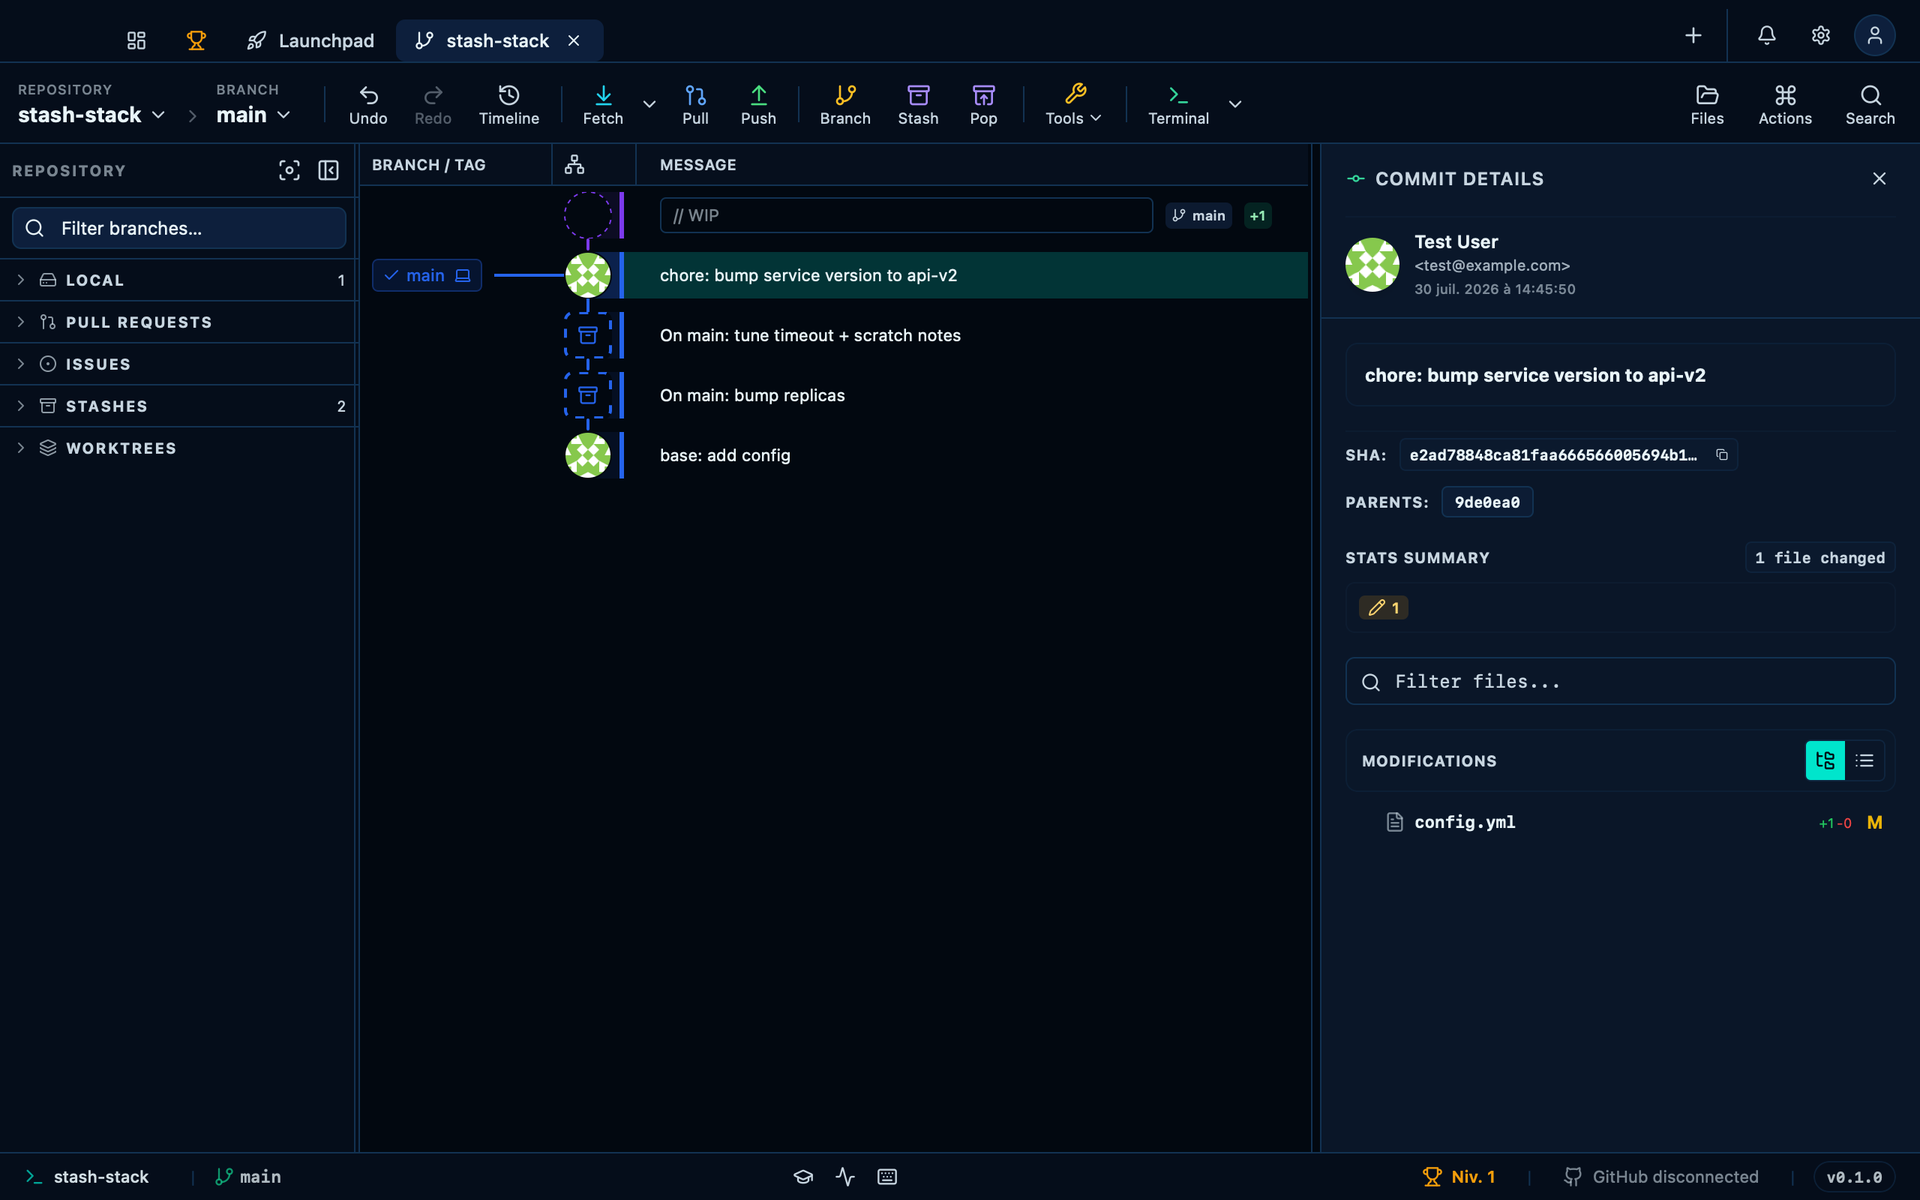
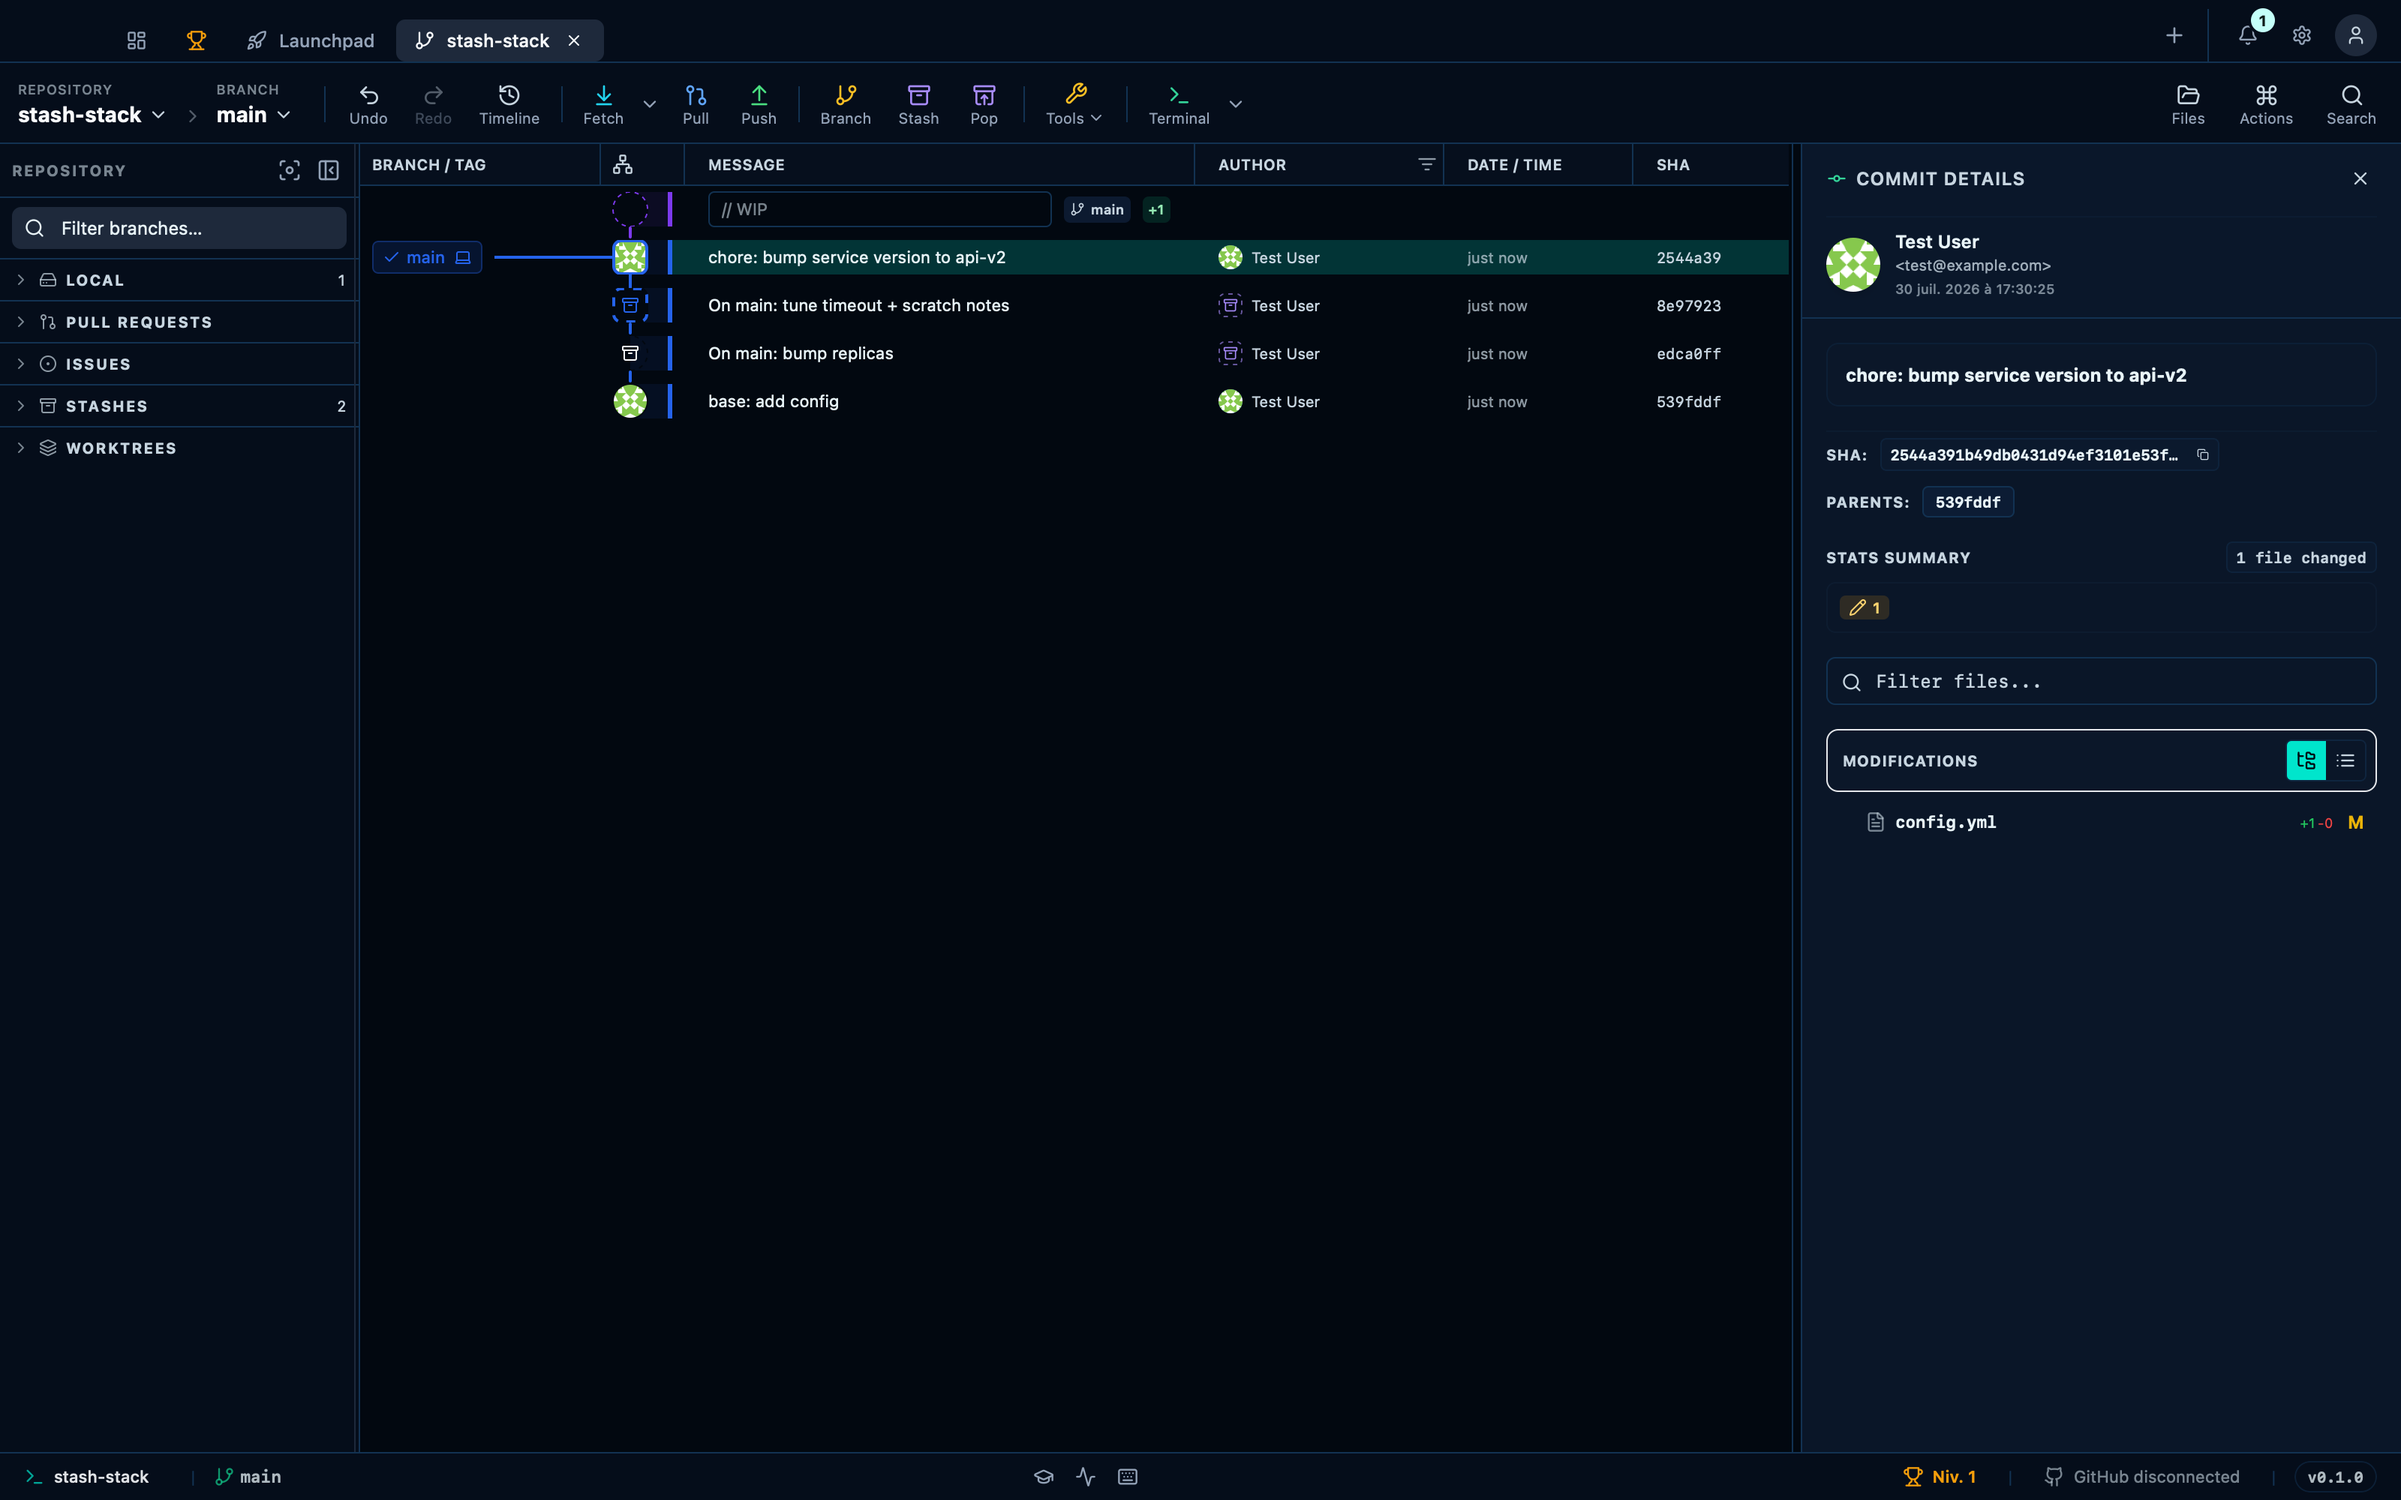
test(e2e): bigger window, denser rows, all columns, and a working AI mock by default
Improves the e2e suite's default capture configuration, applied to every
doc/marketing/visual screenshot the suite takes:

- Bumps the e2e-only window size from 1280x800 to 1600x1000
  (tauri.e2e.conf.json), giving screenshots more room.
- Defaults row height to "small" (32px) instead of the app's own
  "standard" (40px) factory default, fitting more history per capture.
- Shows every commit-graph column (previously only refs/graph/message)
  and widens the graph column to 500px so multi-lane histories render in
  "full" mode rather than "overflow"/"compact".
- Starts a suite-wide fake AI server (fixed port, wdio.conf.ts's
  onPrepare/onComplete) and points the default AI settings at it, so the
  real factory default (AI enabled, pointed at a local Ollama) doesn't
  raise the "AI provider is unreachable" banner in a sandbox with no
  Ollama running. Scenarios needing AI genuinely off, or driving real
  generation against their own scripted server, still override this —
  unaffected.

Also generalizes the disconnected-AI-provider banner's copy from
"{{provider}} is unreachable" (e.g. "Ollama is unreachable") to a plain
"AI provider is unreachable" in both locales, since the specific preset
name wasn't adding anything a user could act on.

Regenerated all 20 existing doc-site screenshots against the new
defaults (docs/screenshots/*.png) — same scenarios, same assertions,
just a roomier, denser capture.

diff --git a/apps/e2e/step-definitions/hooks.steps.ts b/apps/e2e/step-definitions/hooks.steps.ts
@@ -1,5 +1,7 @@
 import { Before } from '@wdio/cucumber-framework'
 import { seedSettings } from '../support/settings.js'
+import { seedGraphColumns } from '../support/gitGraphColumns.js'
+import { SUITE_WIDE_FAKE_AI_URL } from '../support/fakeAiServer.js'
 
 // The app's own factory default is 'dark' (settings.store.ts), but every capture this suite takes
 // — doc screenshots, marketing screenshots, and every @visual baseline — should look like the
@@ -7,9 +9,37 @@ import { seedSettings } from '../support/settings.js'
 // the suite-wide default; a scenario that specifically exercises theming (e.g. settings.feature's
 // per-theme cards) still switches themes itself, this only sets the starting point.
 //
+// `small` (32px) rows fit more history in the same screenshot height than the app's own factory
+// `standard` (40px) default — purely a capture-density choice, not a claim about which one a real
+// user should pick.
+//
 // Runs before every scenario's own Given steps, so it lands in localStorage before that
 // scenario's first reload (fixture-open, fixture-build + window nav, etc.) — the same "seed
 // before reload" mechanism seedSettings' other callers already rely on.
 Before(async () => {
-  await seedSettings({ appearance: { theme: 'ocean' } })
+  await seedSettings({
+    appearance: { theme: 'ocean', rowHeight: 'small' },
+    // Real factory default: AI enabled, pointed at "Ollama". Pointing it at the suite-wide fake
+    // server instead of leaving `url` at its real default (a local Ollama that isn't running in
+    // this sandbox) means the "AI provider is unreachable" banner never raises by default — a
+    // scenario that specifically wants AI *off*, or wants to drive real generation against its own
+    // scripted server, still overrides this with its own "AI features are turned off" /
+    // "the AI provider is pointed at a fake server" step, same as before.
+    ai: { enabled: true, url: SUITE_WIDE_FAKE_AI_URL, model: 'fake-model' },
+  })
+
+  // Every column visible, and `graph` wide enough that no fixture's lane count ever pushes it
+  // into its `overflow`/`compact` modes (see `graphColumnSizing.ts`) — a real per-repo maximum is
+  // computed at render time from that specific repo's concurrent branch count, so there is no
+  // single "true max" to seed in advance; this fixed width is just generous enough (COL_WIDTH is
+  // 22px/lane) to comfortably fit every fixture in this suite without wasted space becoming
+  // noticeable on a 1600px-wide window.
+  await seedGraphColumns({
+    refs: { visible: true, width: 160 },
+    graph: { visible: true, width: 500 },
+    message: { visible: true, width: 400 },
+    author: { visible: true, width: 150 },
+    date: { visible: true, width: 110 },
+    sha: { visible: true, width: 80 },
+  })
 })

diff --git a/apps/e2e/support/fakeAiServer.ts b/apps/e2e/support/fakeAiServer.ts
@@ -10,7 +10,25 @@ export interface FakeAiServerHandle {
   stop: () => Promise<void>
 }
 
+/**
+ * Fixed port for the suite-wide fake AI server started once in `wdio.conf.ts`'s `onPrepare` (see
+ * `SUITE_WIDE_FAKE_AI_URL` below) so the default AI settings seeded by every scenario's `Before`
+ * hook (`hooks.steps.ts`) point at something that actually answers `GET /v1/models` — otherwise
+ * every scenario would need its own "AI features are turned off" step just to silence the
+ * "AI provider is unreachable" banner the app's own real factory default (`ai.enabled: true`,
+ * pointed at a local Ollama) would otherwise raise in a sandbox with no Ollama running. Workers
+ * run in separate OS processes from the `onPrepare` hook that starts this, so they can't share a
+ * live handle — only a well-known port number, hence the fixed value rather than an OS-assigned
+ * one.
+ */
+export const SUITE_WIDE_FAKE_AI_PORT = 8934
+export const SUITE_WIDE_FAKE_AI_URL = `http://127.0.0.1:${SUITE_WIDE_FAKE_AI_PORT}`
+
 export interface FakeAiServerOptions {
+  /** Binds to this exact port instead of an OS-assigned one. Only the suite-wide server
+   * (`wdio.conf.ts`'s `onPrepare`) needs this — every per-scenario fake server still gets a fresh
+   * ephemeral port so scenarios never contend over one. */
+  port?: number
   /** Tokens streamed back as separate SSE chunks, in order. */
   tokens?: string[]
   /** Message used for the single group returned by the non-streaming (grouping) completion path.
@@ -141,7 +159,7 @@ export async function startFakeAiServer(
     res.end()
   })
 
-  await new Promise<void>((resolve) => server.listen(0, '127.0.0.1', resolve))
+  await new Promise<void>((resolve) => server.listen(options.port ?? 0, '127.0.0.1', resolve))
   const { port } = server.address() as AddressInfo
 
   return {

diff --git a/apps/e2e/wdio.conf.ts b/apps/e2e/wdio.conf.ts
@@ -2,6 +2,7 @@ import { existsSync } from 'node:fs'
 import { dirname, join } from 'node:path'
 import { fileURLToPath } from 'node:url'
 import type { Services } from '@wdio/types'
+import { startFakeAiServer, SUITE_WIDE_FAKE_AI_PORT, type FakeAiServerHandle } from './support/fakeAiServer.ts'
 
 const __dirname = dirname(fileURLToPath(import.meta.url))
 
@@ -46,8 +47,23 @@ const visualService: Services.ServiceEntry = [
   },
 ]
 
+// Started once for the whole run (this hook runs in the launcher process, not a per-spec-file
+// worker — see SUITE_WIDE_FAKE_AI_PORT's own doc comment for why a fixed port is what lets the
+// workers reach it). Every scenario's Before hook (hooks.steps.ts) points the default AI settings
+// here, so the real factory default (AI enabled, pointed at a local Ollama) doesn't raise an
+// "AI provider is unreachable" banner in a sandbox with no Ollama running — scenarios that need
+// their own scripted responses (ai-generation.feature, daily-summary.feature) still start their
+// own per-scenario fake server on an ephemeral port, same as before.
+let suiteWideAiServer: FakeAiServerHandle | undefined
+
 export const config: WebdriverIO.Config = {
   runner: 'local',
+  onPrepare: async function () {
+    suiteWideAiServer = await startFakeAiServer({ port: SUITE_WIDE_FAKE_AI_PORT })
+  },
+  onComplete: async function () {
+    await suiteWideAiServer?.stop()
+  },
   // Gherkin features; one worker per .feature file (like spec files were). Step definitions
   // live in ./step-definitions and are matched by text regardless of feature.
   specs: ['./features/**/*.feature'],

diff --git a/apps/desktop/src/components/layout/AiStatusBanner.tsx b/apps/desktop/src/components/layout/AiStatusBanner.tsx
@@ -2,7 +2,6 @@ import { useEffect, useState } from 'react'
 import { AlertTriangle, X } from 'lucide-react'
 import { useTranslation } from '@git-manager/i18n'
 import { Alert } from '@git-manager/ui'
-import { getAiPreset } from '@git-manager/ai'
 import { useSettingsStore } from '../../stores/settings.store'
 import { useAiStatusStore } from '../../stores/aiStatus.store'
 
@@ -21,7 +20,6 @@ interface AiStatusBannerProps {
 export function AiStatusBanner({ onOpenSettings }: AiStatusBannerProps) {
   const { t } = useTranslation('common')
   const aiEnabled = useSettingsStore((s) => s.settings.ai.enabled !== false)
-  const preset = useSettingsStore((s) => s.settings.ai.preset)
   const url = useSettingsStore((s) => s.settings.ai.url)
   const state = useAiStatusStore((s) => s.state)
   const [dismissed, setDismissed] = useState(false)
@@ -49,9 +47,7 @@ export function AiStatusBanner({ onOpenSettings }: AiStatusBannerProps) {
           className="flex min-w-0 flex-1 cursor-pointer items-center gap-2 text-left underline-offset-2 hover:underline"
         >
           <AlertTriangle className="h-3.5 w-3.5 shrink-0" aria-hidden="true" />
-          <span className="font-medium">
-            {t('aiStatus.disconnectedTitle', { provider: getAiPreset(preset).label })}
-          </span>
+          <span className="font-medium">{t('aiStatus.disconnectedTitle')}</span>
           <span className="min-w-0 truncate opacity-80">{t('aiStatus.disconnectedHint', { url })}</span>
         </button>
         <button

diff --git a/apps/desktop/src/components/layout/AiStatusBanner.test.tsx b/apps/desktop/src/components/layout/AiStatusBanner.test.tsx
@@ -36,12 +36,12 @@ describe('AiStatusBanner', () => {
     expect(screen.queryByTestId('ai-status-banner')).not.toBeInTheDocument()
   })
 
-  it('warns with the provider name and URL once the check fails', () => {
+  it('warns with a generic message and the failing URL once the check fails', () => {
     render(<AiStatusBanner onOpenSettings={vi.fn()} />)
     setStatus('disconnected')
 
     const banner = screen.getByTestId('ai-status-banner')
-    expect(banner).toHaveTextContent('Ollama is unreachable')
+    expect(banner).toHaveTextContent('AI provider is unreachable')
     expect(banner).toHaveTextContent('http://localhost:11434')
   })
 
@@ -79,6 +79,8 @@ describe('AiStatusBanner', () => {
   it('is translated', () => {
     useAiStatusStore.setState({ state: 'disconnected' })
     renderWithLanguage(<AiStatusBanner onOpenSettings={vi.fn()} />, 'fr')
-    expect(screen.getByTestId('ai-status-banner')).toHaveTextContent('Ollama est injoignable')
+    expect(screen.getByTestId('ai-status-banner')).toHaveTextContent(
+      'Le fournisseur IA est injoignable'
+    )
   })
 })

diff --git a/apps/e2e/step-definitions/screenshots.steps.ts b/apps/e2e/step-definitions/screenshots.steps.ts
@@ -16,11 +16,11 @@ Given(/^the app language is English$/, async () => {
   await seedSettings({ language: 'en' })
 })
 
-// AI is on by default and points at a local Ollama that isn't running here, so
-// the app raises a persistent "Ollama is unreachable" banner across the top of
-// every screen — a detail of this machine, not of the feature being pictured.
-// Turning the feature off removes the banner rather than hiding it, so the
-// capture shows a state a user could actually be in.
+// The suite-wide Before hook (hooks.steps.ts) already points the default AI settings at a fake
+// server that answers, so a capture doesn't need this step just to silence the
+// "AI provider is unreachable" banner — this is for captures that specifically want the AI
+// menu/buttons absent, showing the app as a user with the feature genuinely turned off would see
+// it.
 Given(/^AI features are turned off$/, async () => {
   await seedSettings({ ai: { enabled: false } })
 })

diff --git a/apps/e2e/support/gitGraphColumns.ts b/apps/e2e/support/gitGraphColumns.ts
@@ -1,0 +1,20 @@
+import { browser } from '@wdio/globals'
+
+type ColumnKey = 'refs' | 'graph' | 'message' | 'author' | 'date' | 'sha'
+
+/**
+ * Overwrites the persisted commit-graph column layout (visibility + width per column) — same
+ * "seed localStorage, takes effect on the next load" contract as `seedSettings`, but for the
+ * `git-manager-git-graph-columns` zustand-persist key (`stores/gitGraphColumns.store.ts`), which
+ * is separate from `git-manager-settings`.
+ */
+export async function seedGraphColumns(
+  columns: Record<ColumnKey, { visible: boolean; width: number }>
+): Promise<void> {
+  await browser.execute((raw: string) => {
+    window.localStorage.setItem(
+      'git-manager-git-graph-columns',
+      JSON.stringify({ state: { columns: JSON.parse(raw) }, version: 0 })
+    )
+  }, JSON.stringify(columns))
+}
